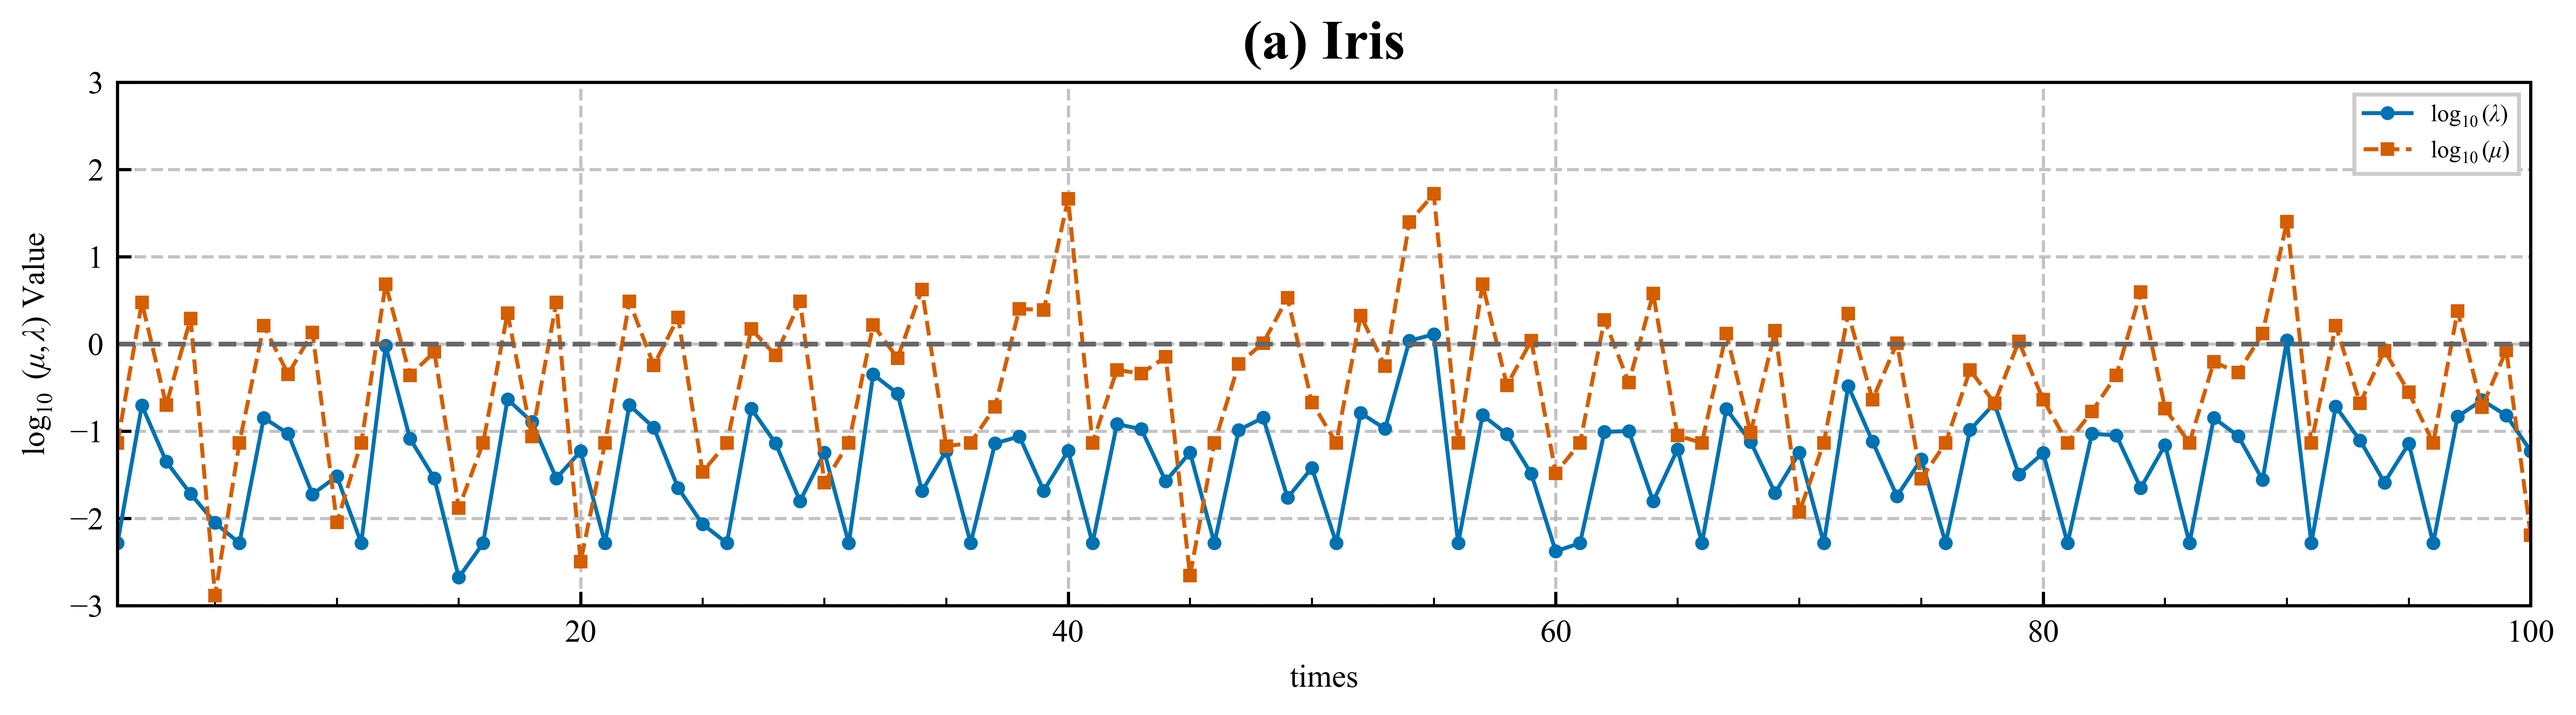
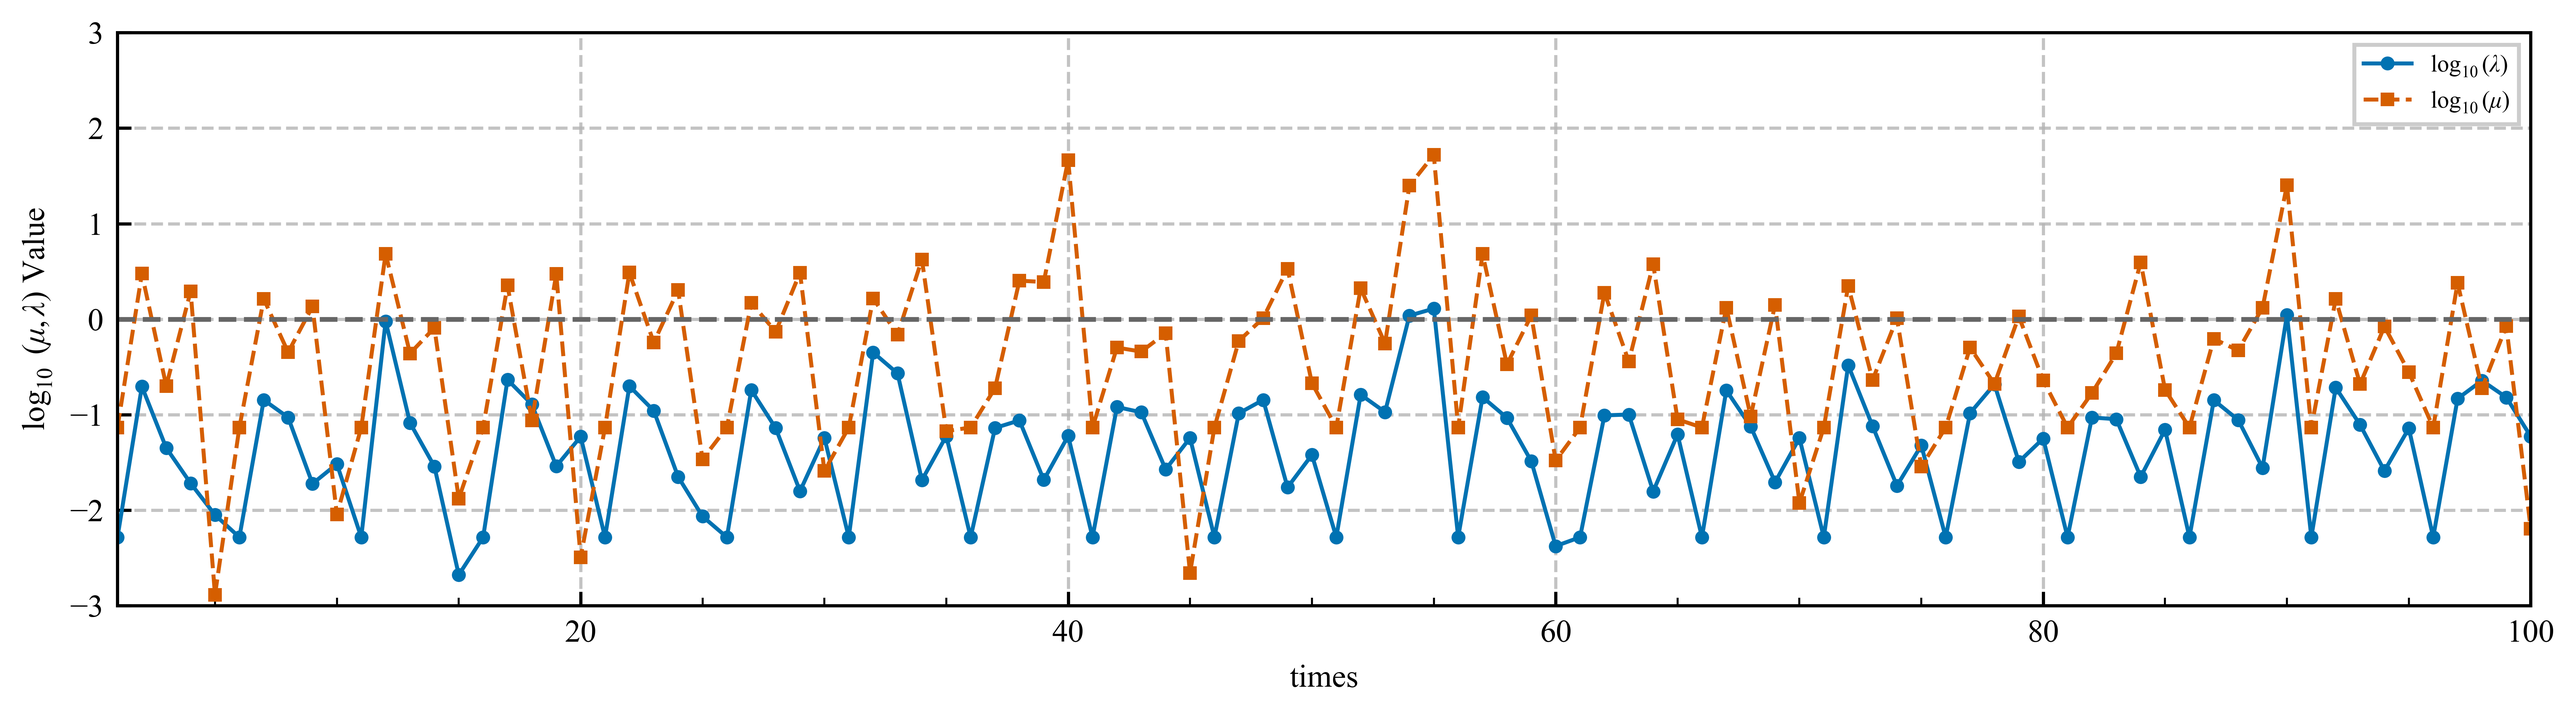
Add More Visualize

diff --git a/figures/ablation_bar_plot.py b/figures/ablation_bar_plot.py
@@ -1,0 +1,119 @@
+# -*- coding: utf-8 -*-
+"""消融实验分组柱状图
+====================
+读取 ``experiments_result/ablation_results.csv``，根据参数绘制 Accuracy 或 F1 Score 的分组柱状图。
+"""
+
+from __future__ import annotations
+
+import argparse
+import os
+import sys
+from typing import List
+
+import matplotlib.pyplot as plt
+import numpy as np
+import pandas as pd
+
+# 保证可以导入项目根目录下的模块
+BASE_DIR = os.path.abspath(os.path.join(os.path.dirname(__file__), os.pardir))
+if BASE_DIR not in sys.path:
+    sys.path.insert(0, BASE_DIR)
+
+# 统一绘图风格
+from utility.plot_style import apply_style
+from utility.plot_utils import savefig
+
+apply_style()
+
+# 结果数据存放目录
+RES_DIR = os.path.join(BASE_DIR, "experiments_result")
+CSV_PATH = os.path.join(RES_DIR, "ablation_results.csv")
+
+# 配置与数据集的顺序及显示标签
+CONFIG_LABELS: List[tuple[str, str]] = [
+    ("baseline", "Baseline"),
+    ("mu_lambda", r"w/ $(\mu,\lambda)$"),
+    ("alpha", r"w/ $\alpha$"),
+    ("full", "Fully Opt."),
+]
+DATASET_ORDER: List[str] = ["Iris", "Wine", "Seeds", "Glass"]
+
+
+def plot(metric: str = "accuracy") -> None:
+    """绘制指定指标的分组柱状图
+
+    Parameters
+    ----------
+    metric: str
+        指标类型，可选 ``accuracy`` 或 ``f1``。
+    """
+
+    if metric not in {"accuracy", "f1"}:
+        raise ValueError("metric must be 'accuracy' or 'f1'")
+
+    df = pd.read_csv(CSV_PATH)
+    # 生成以数据集为行、配置为列的透视表
+    pivot = df.pivot(index="dataset", columns="config", values=metric)
+    pivot = pivot.reindex(DATASET_ORDER)
+
+    x = np.arange(len(DATASET_ORDER))
+    group_width = 0.8  # 单组柱状图在 x 轴上的总宽度
+    bar_width = group_width / len(CONFIG_LABELS)
+    offsets = np.linspace(
+        -group_width / 2 + bar_width / 2,
+        group_width / 2 - bar_width / 2,
+        len(CONFIG_LABELS),
+    )
+
+    fig, ax = plt.subplots(figsize=(12 / 2.54, 7 / 2.54))
+    ax.set_axisbelow(True)
+    ax.yaxis.grid(True, zorder=0, linestyle="--", linewidth=0.5)
+
+    # 使用对比强烈且美观的配色
+    colors = ["#4E79A7", "#F28E2B", "#E15759", "#76B7B2"]
+    for i, (config, label) in enumerate(CONFIG_LABELS):
+        ax.bar(
+            x + offsets[i],
+            pivot[config].to_numpy(),
+            width=bar_width,
+            color=colors[i % len(colors)],
+            label=label,
+            zorder=2,
+        )
+
+    ax.set_xticks(x)
+    ax.set_xticklabels(DATASET_ORDER)
+    ax.set_ylabel("F1 Score" if metric == "f1" else "Accuracy")
+    ax.set_ylim(0.0, 1.0)
+
+    title_metric = "F1 Score" if metric == "f1" else "Accuracy"
+    fig.suptitle(
+        f"Ablation Experiment Results on Overall {title_metric} across Four Datasets.",
+        y=0.98,
+    )
+    handles, labels = ax.get_legend_handles_labels()
+    fig.legend(
+        handles,
+        labels,
+        loc="upper center",
+        ncol=len(CONFIG_LABELS),
+        frameon=True,
+        bbox_to_anchor=(0.5, 0.9),
+    )
+    fig.tight_layout(rect=[0, 0, 1, 0.82])
+
+    out_path = os.path.join(RES_DIR, f"ablation_{metric}.png")
+    savefig(fig, out_path, tight_layout=False)
+
+
+if __name__ == "__main__":  # pragma: no cover
+    parser = argparse.ArgumentParser(description="绘制消融实验分组柱状图")
+    parser.add_argument(
+        "--metric",
+        choices=["accuracy", "f1"],
+        default="accuracy",
+        help="选择绘制的性能指标",
+    )
+    args = parser.parse_args()
+    plot(args.metric)

diff --git a/figures/bayes_params_plot.py b/figures/bayes_params_plot.py
@@ -6,6 +6,7 @@
 
 from __future__ import annotations
 
+import argparse
 import os
 import string
 import sys
@@ -46,7 +47,7 @@ DATASET_LABEL_IDX: dict[str, int] = {
 }
 
 
-def plot_dataset(dataset: str, label_idx: int, font_kwargs: dict | None = None) -> None:
+def plot_dataset(dataset: str, label_idx: int, font_kwargs: dict | None = None, with_title: bool = False, ) -> None:
     """绘制单个数据集的 ``mu`` 与 ``lambda`` 曲线
 
     Parameters
@@ -56,7 +57,9 @@ def plot_dataset(dataset: str, label_idx: int, font_kwargs: dict | None = None) 
     label_idx:
         字母编号，用于在标题中标记 ``(a)``, ``(b)`` 等。
     font_kwargs:
-        控制标题和坐标轴字体的大小与粗细，例如 ``{"fontsize": 14, "fontweight": "bold"}``。
+        控制标题字体的大小与粗细，例如 ``{"fontsize": 14, "fontweight": "bold"}``。
+    with_title:
+        是否在图中添加标题，默认不添加。
     """
 
     # 构造 csv 路径并检查文件是否存在
@@ -116,12 +119,10 @@ def plot_dataset(dataset: str, label_idx: int, font_kwargs: dict | None = None) 
     ax.set_xlabel("times")
     ax.set_ylabel(r"$\log_{10}$ $(\mu,\lambda)$ Value")
     ax.set_xlim(x.min(), x.max())
-    # 仅对 (a) Iris 的标题加粗并加大字号，其余使用默认
+    # 标题统一采用加粗大字号样式
     _title_text = f"({string.ascii_lowercase[label_idx]}) {title}"
-    if dataset.lower() == "iris":
-        ax.set_title(_title_text, fontsize=14, fontweight="bold")
-    else:
-        ax.set_title(_title_text)
+    if with_title:
+        ax.set_title(_title_text, **(font_kwargs or {}))
 
     # 坐标刻度与权重均使用默认样式（由 apply_style 控制）
 
@@ -135,13 +136,17 @@ def plot_dataset(dataset: str, label_idx: int, font_kwargs: dict | None = None) 
 
 
 if __name__ == "__main__":  # pragma: no cover
+    parser = argparse.ArgumentParser(description="Visualize Bayes parameter tuning results")
     # todo 默认绘制的数据集，绘制其他数据集的需要调整
-    datasets = sys.argv[1:] or ["iris"]
+    parser.add_argument("datasets", nargs="*", default=["iris"], help="datasets to plot")
+    # 是否为每个图添加标题
+    parser.add_argument("--title", action="store_true", help="add titles to each plot", )
+    args = parser.parse_args()
 
     # 统一的字体设置：字号变大并加粗
-    font_kwargs = {"fontsize": 14, "fontweight": "bold"}
+    font_kwargs = {"fontsize": 14, "fontweight": "bold"} if args.title else None
 
     # 批量绘制多个数据集的参数曲线
-    for ds in datasets:
+    for ds in args.datasets:
         label_idx = DATASET_LABEL_IDX.get(ds.lower(), 0)
-        plot_dataset(ds, label_idx, font_kwargs)
+        plot_dataset(ds, label_idx, font_kwargs, with_title=args.title)

diff --git a/utility/plot_utils.py b/utility/plot_utils.py
@@ -37,7 +37,8 @@ def highlight_overlapping_lines(ax: plt.Axes, *, tol: float = 1e-8, extra_width:
                 lines[j].set_linewidth(new_width)
 
 
-def savefig(fig_or_path: str | plt.Figure, path: str | None = None, *, show: bool = True, **savefig_kwargs, ) -> None:
+def savefig(fig_or_path: str | plt.Figure, path: str | None = None, *, show: bool = True, tight_layout: bool = True,
+            **savefig_kwargs, ) -> None:
     """统一保存图像，可选是否显示"""
     if isinstance(fig_or_path, plt.Figure):
         fig = fig_or_path
@@ -46,18 +47,19 @@ def savefig(fig_or_path: str | plt.Figure, path: str | None = None, *, show: boo
         fig = plt.gcf()
         out = fig_or_path
     # 某些情况下三维坐标轴无法很好地应用 tight_layout，因此这里忽略相关警告以避免屏幕输出过多提示。
-    with warnings.catch_warnings():
-        warnings.filterwarnings(
-            "ignore",
-            message=".*Tight layout not applied.*",
-            category=UserWarning,
-        )
-        warnings.filterwarnings(
-            "ignore",
-            message=".*figure layout has changed.*",
-            category=UserWarning,
-        )
-        fig.tight_layout()
+    if tight_layout:
+        with warnings.catch_warnings():
+            warnings.filterwarnings(
+                "ignore",
+                message=".*Tight layout not applied.*",
+                category=UserWarning,
+            )
+            warnings.filterwarnings(
+                "ignore",
+                message=".*figure layout has changed.*",
+                category=UserWarning,
+            )
+            fig.tight_layout()
     if out is not None:
         fig.savefig(out, **savefig_kwargs)
     else:
